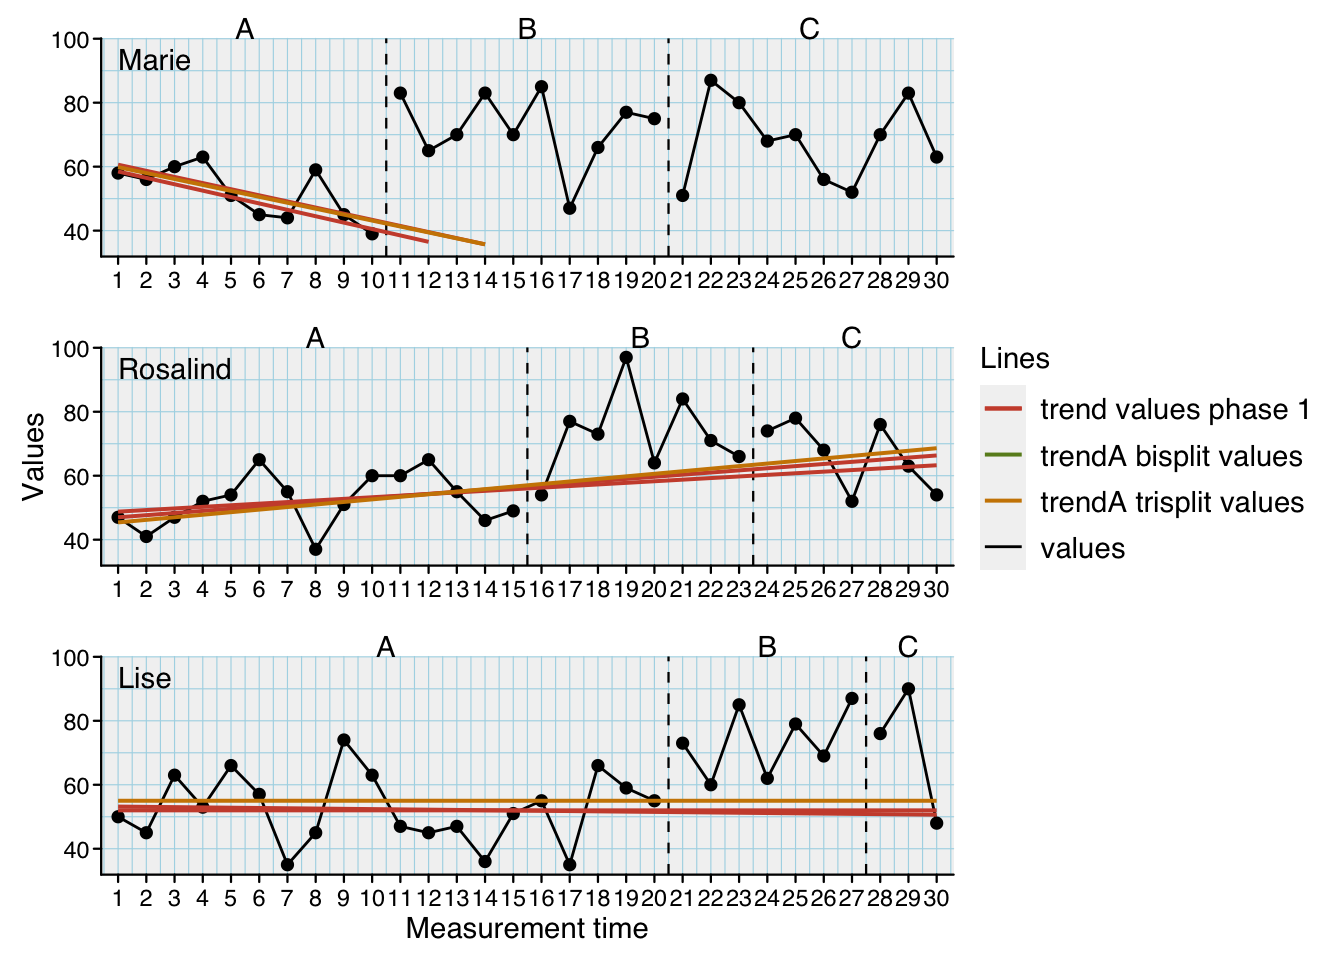
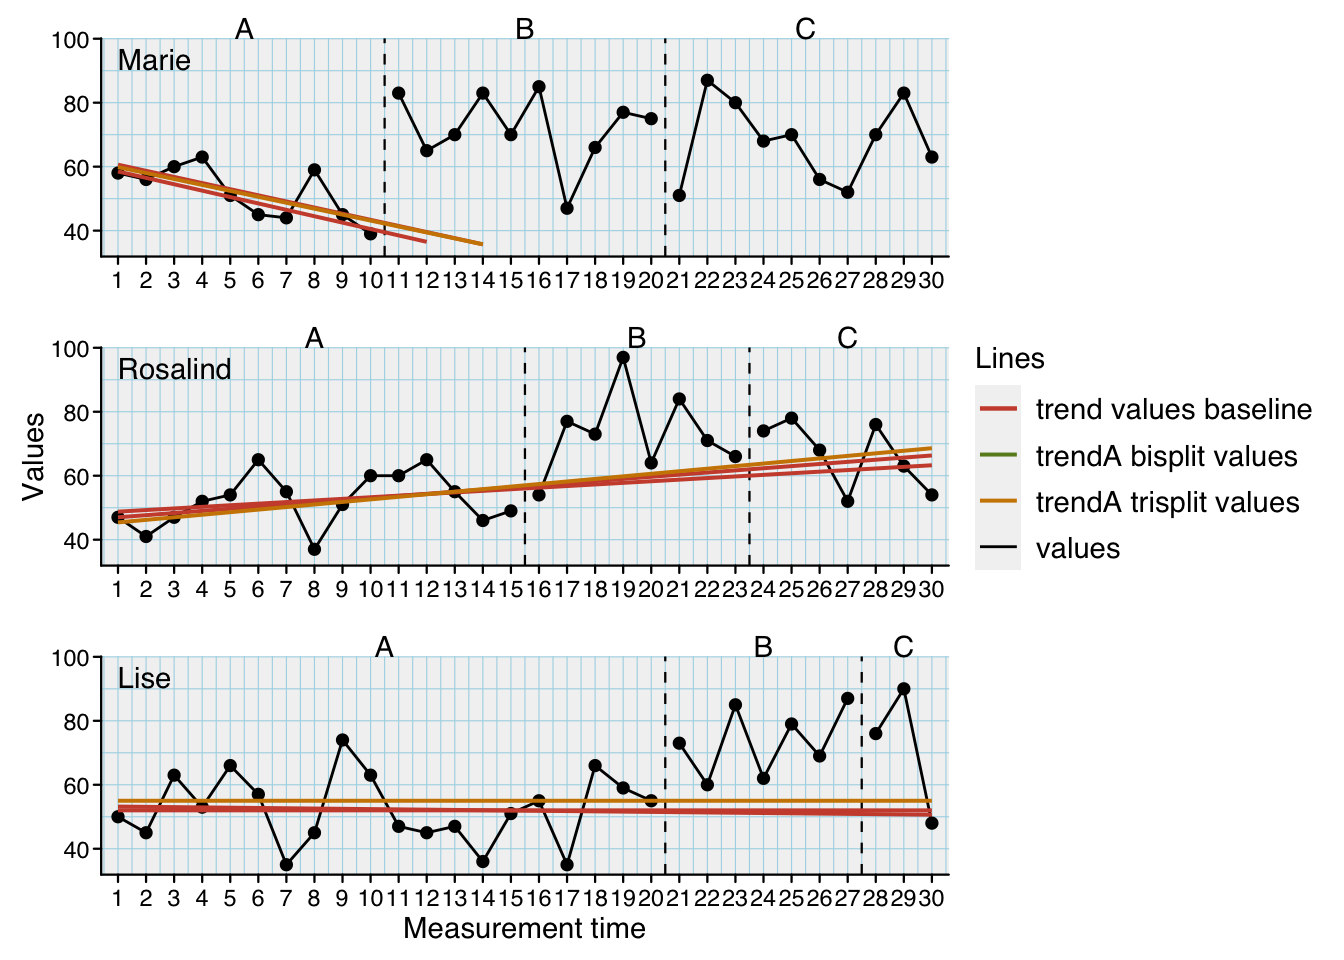
upd

diff --git a/docs/news/index.html b/docs/news/index.html
@@ -43,10 +43,17 @@
 
     <div class="section level2">
 <h2 class="page-header" data-toc-text="0.6.2" id="scplot-062">scplot 0.6.2<a class="anchor" aria-label="anchor" href="#scplot-062"></a></h2>
-<ul><li>Fixed bug that did failed to add statlines when the phase variable was not “phase”.</li>
-<li>Improved the automatic naming of statlines when the phase argument was set. (e.g. “mean”, phase = “A” now creates a statline with the name “mean values A”).</li>
+<ul><li>Fixed bug that did not allow to set the pvar to something else than and add a statline at the same time.</li>
+<li>Improved the automatic naming of statlines when the phase argument is set. (e.g. “mean”, phase = “A” now creates a statline with the name “mean values A”).</li>
 <li>Themes that have been created with <em>scplot</em> prior version 0.6.2 (including 0.6.1) must be recreated by executing the respective functions due to the adoption to S7 classes.</li>
-</ul></div>
+<li>New experimental option to include staicase style phase separators that go across plots</li>
+</ul><pre><code><span><span class="fu"><a href="../reference/scplot.html">scplot</a></span><span class="op">(</span><span class="va">exampleA1B1A2B2</span><span class="op">)</span> <span class="op">|&gt;</span></span>
+<span>  <span class="fu">scplot</span><span class="fu">::</span><span class="fu"><a href="../reference/set_theme.html">set_theme</a></span><span class="op">(</span><span class="st">"basic"</span>, <span class="st">"tiny"</span>, <span class="st">"staircase"</span><span class="op">)</span> <span class="op">|&gt;</span></span>
+<span>  <span class="fu"><a href="../reference/set_xaxis.html">set_yaxis</a></span><span class="op">(</span><span class="fu"><a href="https://rdrr.io/r/base/c.html" class="external-link">c</a></span><span class="op">(</span><span class="cn">NA</span>,<span class="fl">50</span><span class="op">)</span><span class="op">)</span></span>
+<span></span>
+<span><span class="fu"><a href="../reference/scplot.html">scplot</a></span><span class="op">(</span><span class="va">exampleABC</span><span class="op">)</span> <span class="op">|&gt;</span></span>
+<span>  <span class="fu"><a href="../reference/set_separator.html">set_separator</a></span><span class="op">(</span>staircase <span class="op">=</span> <span class="cn">TRUE</span>, linewidth <span class="op">=</span> <span class="fl">2</span>, linetype <span class="op">=</span> <span class="st">"solid"</span><span class="op">)</span>  </span></code></pre>
+</div>
     <div class="section level2">
 <h2 class="page-header" data-toc-text="0.6.1" id="scplot-061">scplot 0.6.1<small>2026-02-25</small><a class="anchor" aria-label="anchor" href="#scplot-061"></a></h2>
 <ul><li>Compatible with the new ggplot2 version which changed to S7 classes.</li>
@@ -56,7 +63,7 @@
     <div class="section level2">
 <h2 class="page-header" data-toc-text="0.6.0" id="scplot-060">scplot 0.6.0<small>2025-06-29</small><a class="anchor" aria-label="anchor" href="#scplot-060"></a></h2>
 <ul><li>New function <code><a href="../reference/scplot_rand.html">scplot_rand()</a></code>: Takes an scdf and a statistic from the rand-test() function and returns a plot with the repective statistical results for varying phase B start positions.</li>
-</ul><div class="sourceCode" id="cb1"><pre class="downlit sourceCode r">
+</ul><div class="sourceCode" id="cb2"><pre class="downlit sourceCode r">
 <code class="sourceCode R"><span><span class="fu"><a href="../reference/scplot_rand.html">scplot_rand</a></span><span class="op">(</span><span class="va">byHeart2011</span><span class="op">[</span><span class="fl">1</span><span class="op">:</span><span class="fl">5</span><span class="op">]</span>, <span class="st">"Slope B-A"</span><span class="op">)</span></span></code></pre></div>
 <ul><li>Fixed bug that did did not allow to set the dvar and add a statline.</li>
 </ul></div>
@@ -98,7 +105,7 @@
 <h3 id="new-functions-0-3">new functions:<a class="anchor" aria-label="anchor" href="#new-functions-0-3"></a></h3>
 <ul><li>
 <code><a href="../reference/new_theme.html">new_theme()</a></code>: creates a new scplot-theme.</li>
-</ul><div class="sourceCode" id="cb2"><pre class="downlit sourceCode r">
+</ul><div class="sourceCode" id="cb3"><pre class="downlit sourceCode r">
 <code class="sourceCode R"><span><span class="va">new_theme</span> <span class="op">&lt;-</span> <span class="fu"><a href="../reference/new_theme.html">new_theme</a></span><span class="op">(</span><span class="op">)</span> <span class="op">|&gt;</span> </span>
 <span>  <span class="fu"><a href="../reference/set_xaxis.html">set_xaxis</a></span><span class="op">(</span>color <span class="op">=</span> <span class="st">"brown"</span><span class="op">)</span> <span class="op">|&gt;</span></span>
 <span>  <span class="fu"><a href="../reference/set_xaxis.html">set_yaxis</a></span><span class="op">(</span>color <span class="op">=</span> <span class="st">"sienna3"</span><span class="op">)</span> <span class="op">|&gt;</span></span>
@@ -119,7 +126,7 @@
 <span><span class="fu"><a href="../reference/scplot.html">scplot</a></span><span class="op">(</span><span class="va">exampleABC</span><span class="op">)</span> <span class="op">|&gt;</span> <span class="fu"><a href="../reference/set_theme.html">set_theme</a></span><span class="op">(</span><span class="va">new_theme</span><span class="op">)</span></span></code></pre></div>
 <ul><li>
 <code><a href="../reference/new_theme.html">extract_theme()</a></code>: returns the theme of an scplot object (instead of creating a plot). This theme can be reused in other plots with the <code><a href="../reference/set_theme.html">add_theme()</a></code> function.</li>
-</ul><div class="sourceCode" id="cb3"><pre class="downlit sourceCode r">
+</ul><div class="sourceCode" id="cb4"><pre class="downlit sourceCode r">
 <code class="sourceCode R"><span><span class="va">new_theme</span> <span class="op">&lt;-</span> <span class="fu"><a href="../reference/scplot.html">scplot</a></span><span class="op">(</span><span class="op">)</span> <span class="op">|&gt;</span> </span>
 <span>  <span class="fu"><a href="../reference/set_xaxis.html">set_xaxis</a></span><span class="op">(</span>color <span class="op">=</span> <span class="st">"brown"</span><span class="op">)</span> <span class="op">|&gt;</span></span>
 <span>  <span class="fu"><a href="../reference/set_xaxis.html">set_yaxis</a></span><span class="op">(</span>color <span class="op">=</span> <span class="st">"sienna3"</span><span class="op">)</span> <span class="op">|&gt;</span></span>
@@ -163,7 +170,7 @@
 <h3 id="new-experimental-function-for-ploting-0-1-0">New experimental function for ploting<a class="anchor" aria-label="anchor" href="#new-experimental-function-for-ploting-0-1-0"></a></h3>
 <p>The new <code><a href="../reference/scplot.html">scplot()</a></code> function is here! It allows for a more tidy coding and the use of <code>|&gt;</code> (or <code>|&gt;</code>) operators. <code>scplot</code> is in an experimental state and code with current syntax might not work in a later version due to changes in function and argument names. Still, <code><a href="../reference/scplot.html">scplot()</a></code> works in many cases. We plan to add new graphical features primarily to <code>scplot</code> which is already capable of doing more than <code>plot.scdf()</code>.</p>
 <p>Here is an example that implicitly also introduces several of the new graphical functions:</p>
-<div class="sourceCode" id="cb4"><pre class="downlit sourceCode r">
+<div class="sourceCode" id="cb5"><pre class="downlit sourceCode r">
 <code class="sourceCode R"><span><span class="fu"><a href="../reference/scplot.html">scplot</a></span><span class="op">(</span><span class="va">exampleABAB</span><span class="op">)</span> <span class="op">|&gt;</span> </span>
 <span>  <span class="fu"><a href="../reference/add_statline.html">add_statline</a></span><span class="op">(</span>stat <span class="op">=</span> <span class="st">"trendA"</span>, colour <span class="op">=</span> <span class="st">"tomato2"</span><span class="op">)</span> <span class="op">|&gt;</span></span>
 <span>  <span class="fu"><a href="../reference/add_statline.html">add_statline</a></span><span class="op">(</span>stat <span class="op">=</span> <span class="st">"maxA"</span>, colour <span class="op">=</span> <span class="st">"lightblue"</span><span class="op">)</span> <span class="op">|&gt;</span></span>

diff --git a/docs/reference/add_marks.html b/docs/reference/add_marks.html
@@ -122,7 +122,7 @@ added.</p>
     <div id="ref-examples">
     <h2>Examples</h2>
     <div class="sourceCode"><pre class="sourceCode r"><code><span class="r-in"><span><span class="kw"><a href="https://rdrr.io/r/base/library.html" class="external-link">library</a></span><span class="op">(</span><span class="va"><a href="https://github.com/jazznbass/scan/" class="external-link">scan</a></span><span class="op">)</span></span></span>
-<span class="r-msg co"><span class="r-pr">#&gt;</span> <span style="color: #0000BB;">scan 0.67.2 (2026-01-22)</span></span>
+<span class="r-msg co"><span class="r-pr">#&gt;</span> <span style="color: #0000BB;">scan 0.67.2 (2026-02-24)</span></span>
 <span class="r-msg co"><span class="r-pr">#&gt;</span> <span style="color: #BB0000;">Type 'import_scdf()' to start the import helper.</span></span>
 <span class="r-in"><span><span class="va">p1</span> <span class="op">&lt;-</span> <span class="fu"><a href="scplot.html">scplot</a></span><span class="op">(</span><span class="va">exampleA1B1A2B2</span><span class="op">$</span><span class="va">Moritz</span><span class="op">)</span> <span class="op">|&gt;</span> <span class="fu">add_marks</span><span class="op">(</span>positions <span class="op">=</span> <span class="fu"><a href="https://rdrr.io/r/base/c.html" class="external-link">c</a></span><span class="op">(</span><span class="fl">1</span>,<span class="fl">5</span>,<span class="fl">10</span>,<span class="fl">14</span><span class="op">)</span><span class="op">)</span></span></span>
 <span class="r-in"><span><span class="va">p1</span> <span class="op">&lt;-</span> <span class="fu"><a href="scplot.html">scplot</a></span><span class="op">(</span><span class="va">Huber2014</span><span class="op">)</span> <span class="op">|&gt;</span> <span class="fu">add_marks</span><span class="op">(</span>positions <span class="op">=</span> <span class="fu"><a href="https://jazznbass.github.io/scan/reference/outlier.html" class="external-link">outlier</a></span><span class="op">(</span><span class="va">Huber2014</span><span class="op">)</span><span class="op">)</span></span></span>

diff --git a/old/test.html b/old/test.html
@@ -86,12 +86,12 @@ pre > code.sourceCode > span > a:first-child::before { text-decoration: underlin
 <div class="cell">
 <div class="code-copy-outer-scaffold"><div class="sourceCode cell-code" id="cb1"><pre class="sourceCode r code-with-copy"><code class="sourceCode r"><span id="cb1-1"><a href="#cb1-1" aria-hidden="true" tabindex="-1"></a><span class="fu">library</span>(scan)</span></code></pre></div><button title="Copy to Clipboard" class="code-copy-button"><i class="bi"></i></button></div>
 <div class="cell-output cell-output-stderr">
-<pre><code>[34mscan 0.67.2 (2026-01-22)
-[31mFor information on citing scan, type citation("scan").</code></pre>
+<pre><code>[34mscan 0.67.2 (2026-02-24)
+[31mStart scans GUI by clicking 'Addins -&gt; Launch Shiny-Scan'.</code></pre>
 </div>
 <div class="code-copy-outer-scaffold"><div class="sourceCode cell-code" id="cb3"><pre class="sourceCode r code-with-copy"><code class="sourceCode r"><span id="cb3-1"><a href="#cb3-1" aria-hidden="true" tabindex="-1"></a><span class="fu">library</span>(scplot)</span></code></pre></div><button title="Copy to Clipboard" class="code-copy-button"><i class="bi"></i></button></div>
 <div class="cell-output cell-output-stderr">
-<pre><code>[31mscplot 0.6.2 (2026-02-27)[34m</code></pre>
+<pre><code>[31mscplot 0.6.2 (2026-03-04)[34m</code></pre>
 </div>
 </div>
 <div class="cell">

diff --git a/NEWS.md b/NEWS.md
@@ -1,15 +1,25 @@
+
+
 # scplot 0.6.2
 
-- Fixed bug that did failed to add statlines when the phase variable was not "phase".
-- Improved the automatic naming of statlines when the phase argument was set. 
-  (e.g. "mean", phase = "A" now creates a statline with the name "mean values A").
--   Themes that have been created with *scplot* prior version 0.6.2 (including 0.6.1) must be recreated by executing the respective functions due to the adoption to S7 classes.   
+-   Fixed bug that did not allow to set the pvar to something else than and add a statline at the same time.
+-   Improved the automatic naming of statlines when the phase argument is set. (e.g. "mean", phase = "A" now creates a statline with the name "mean values A").
+-   Themes that have been created with *scplot* prior version 0.6.2 (including 0.6.1) must be recreated by executing the respective functions due to the adoption to S7 classes.
+-   New experimental option to include staicase style phase separators that go across plots
 
+```
+scplot(exampleA1B1A2B2) |> 
+  scplot::set_theme("basic", "tiny", "staircase") |> 
+  set_yaxis(c(NA,50))
+  
+scplot(exampleABC) |> 
+  set_separator(staircase = TRUE, linewidth = 2, linetype = "solid")  
+```
 
 # scplot 0.6.1
 
 -   Compatible with the new ggplot2 version which changed to S7 classes.
--   Themes that have been created with *scplot* prior version 0.6.1 must be recreated by executing the respective functions due to the adoption to S7 classes.   
+-   Themes that have been created with *scplot* prior version 0.6.1 must be recreated by executing the respective functions due to the adoption to S7 classes.\
 -   Extended the roxygen documentation for several functions.
 
 # scplot 0.6.0
